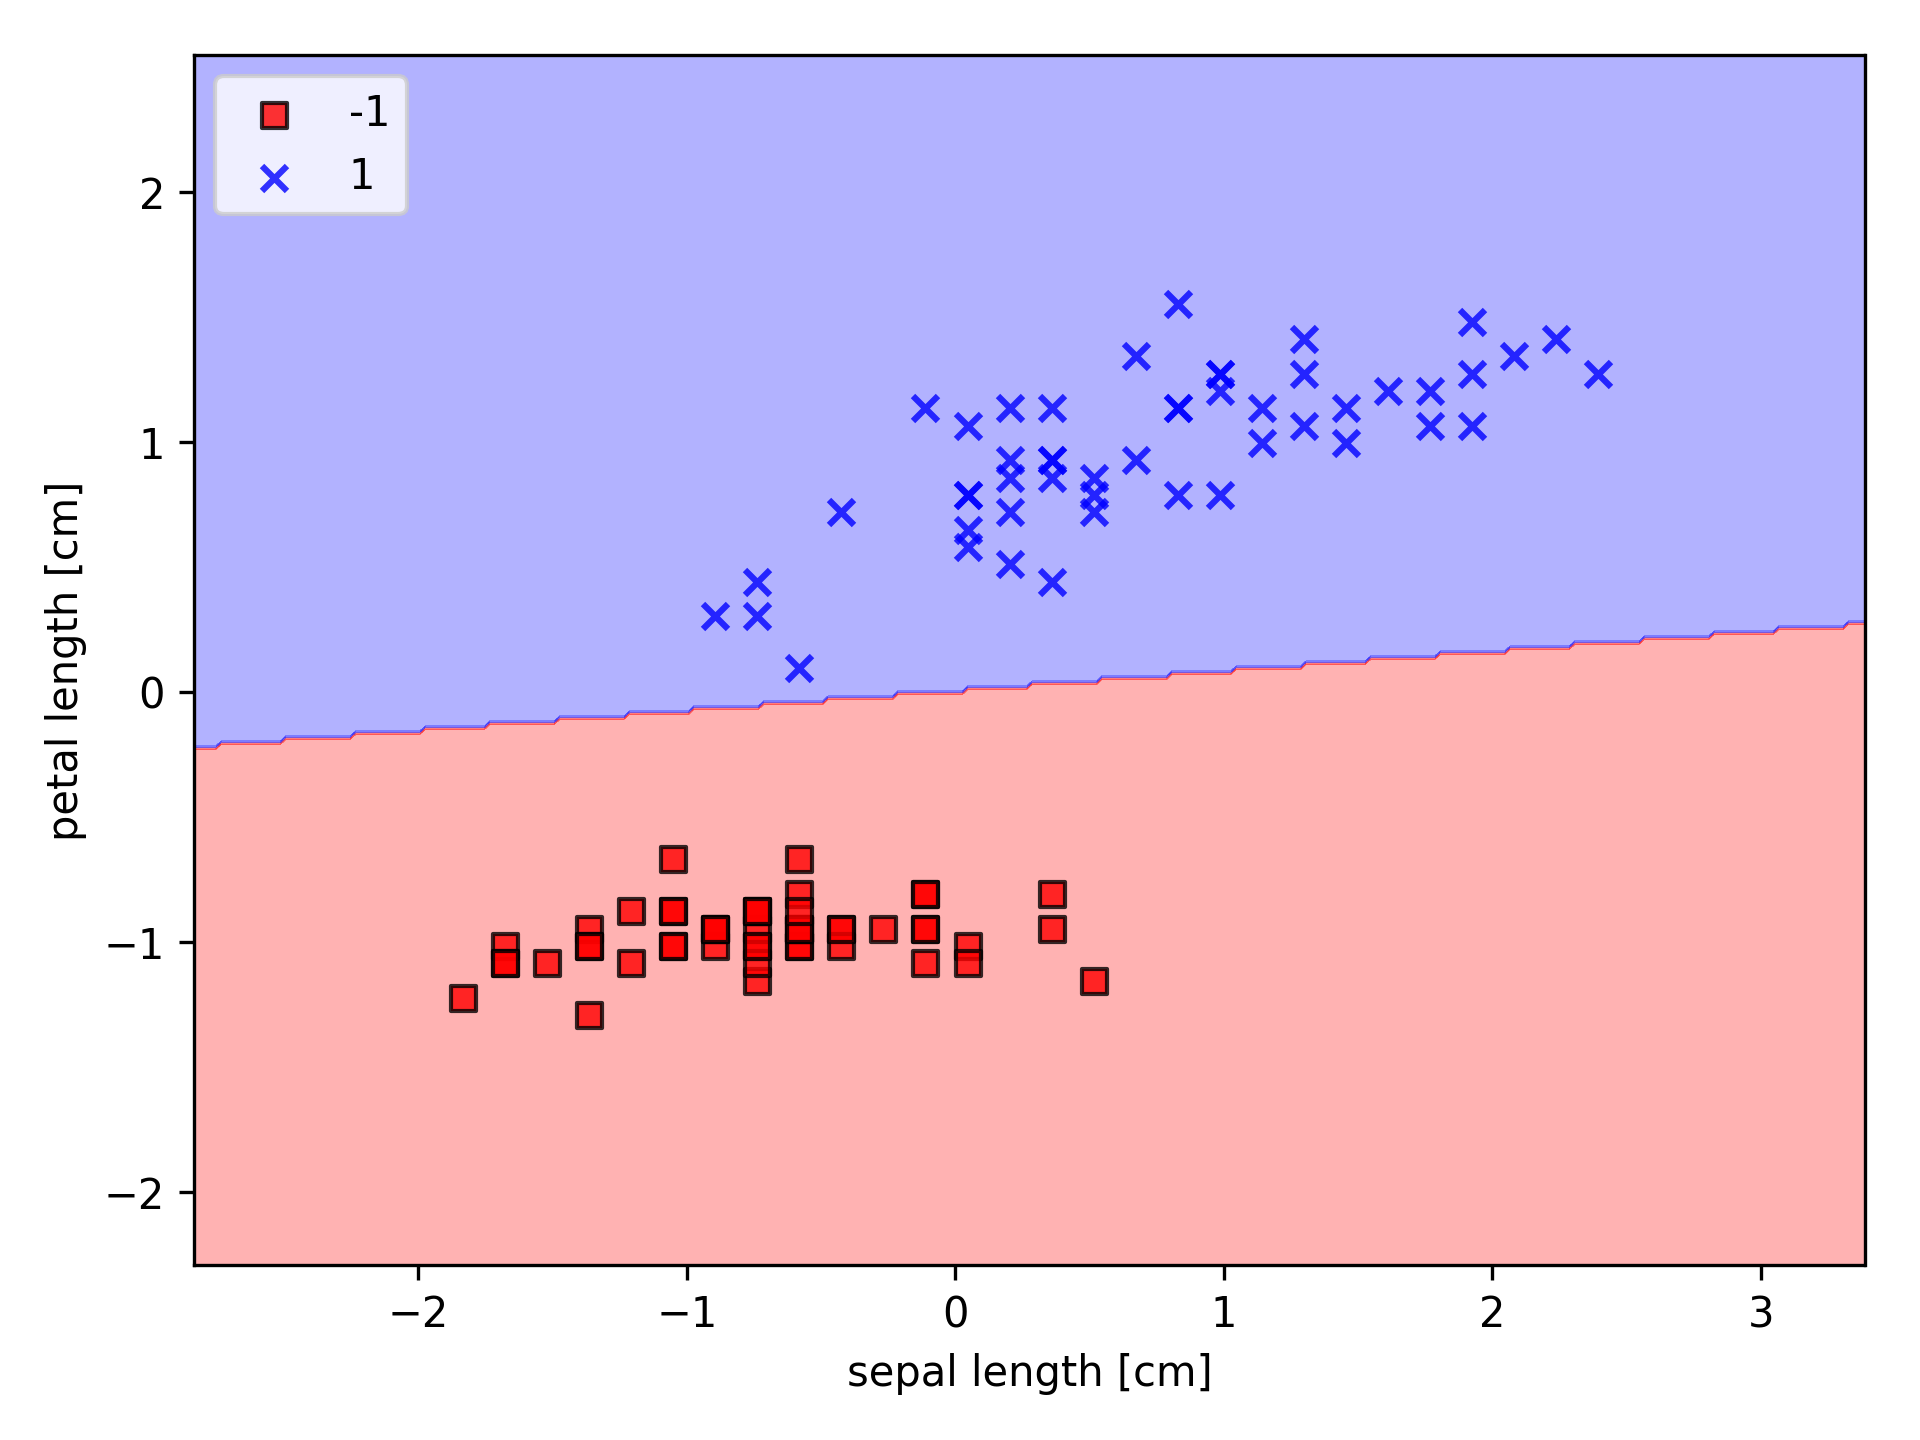
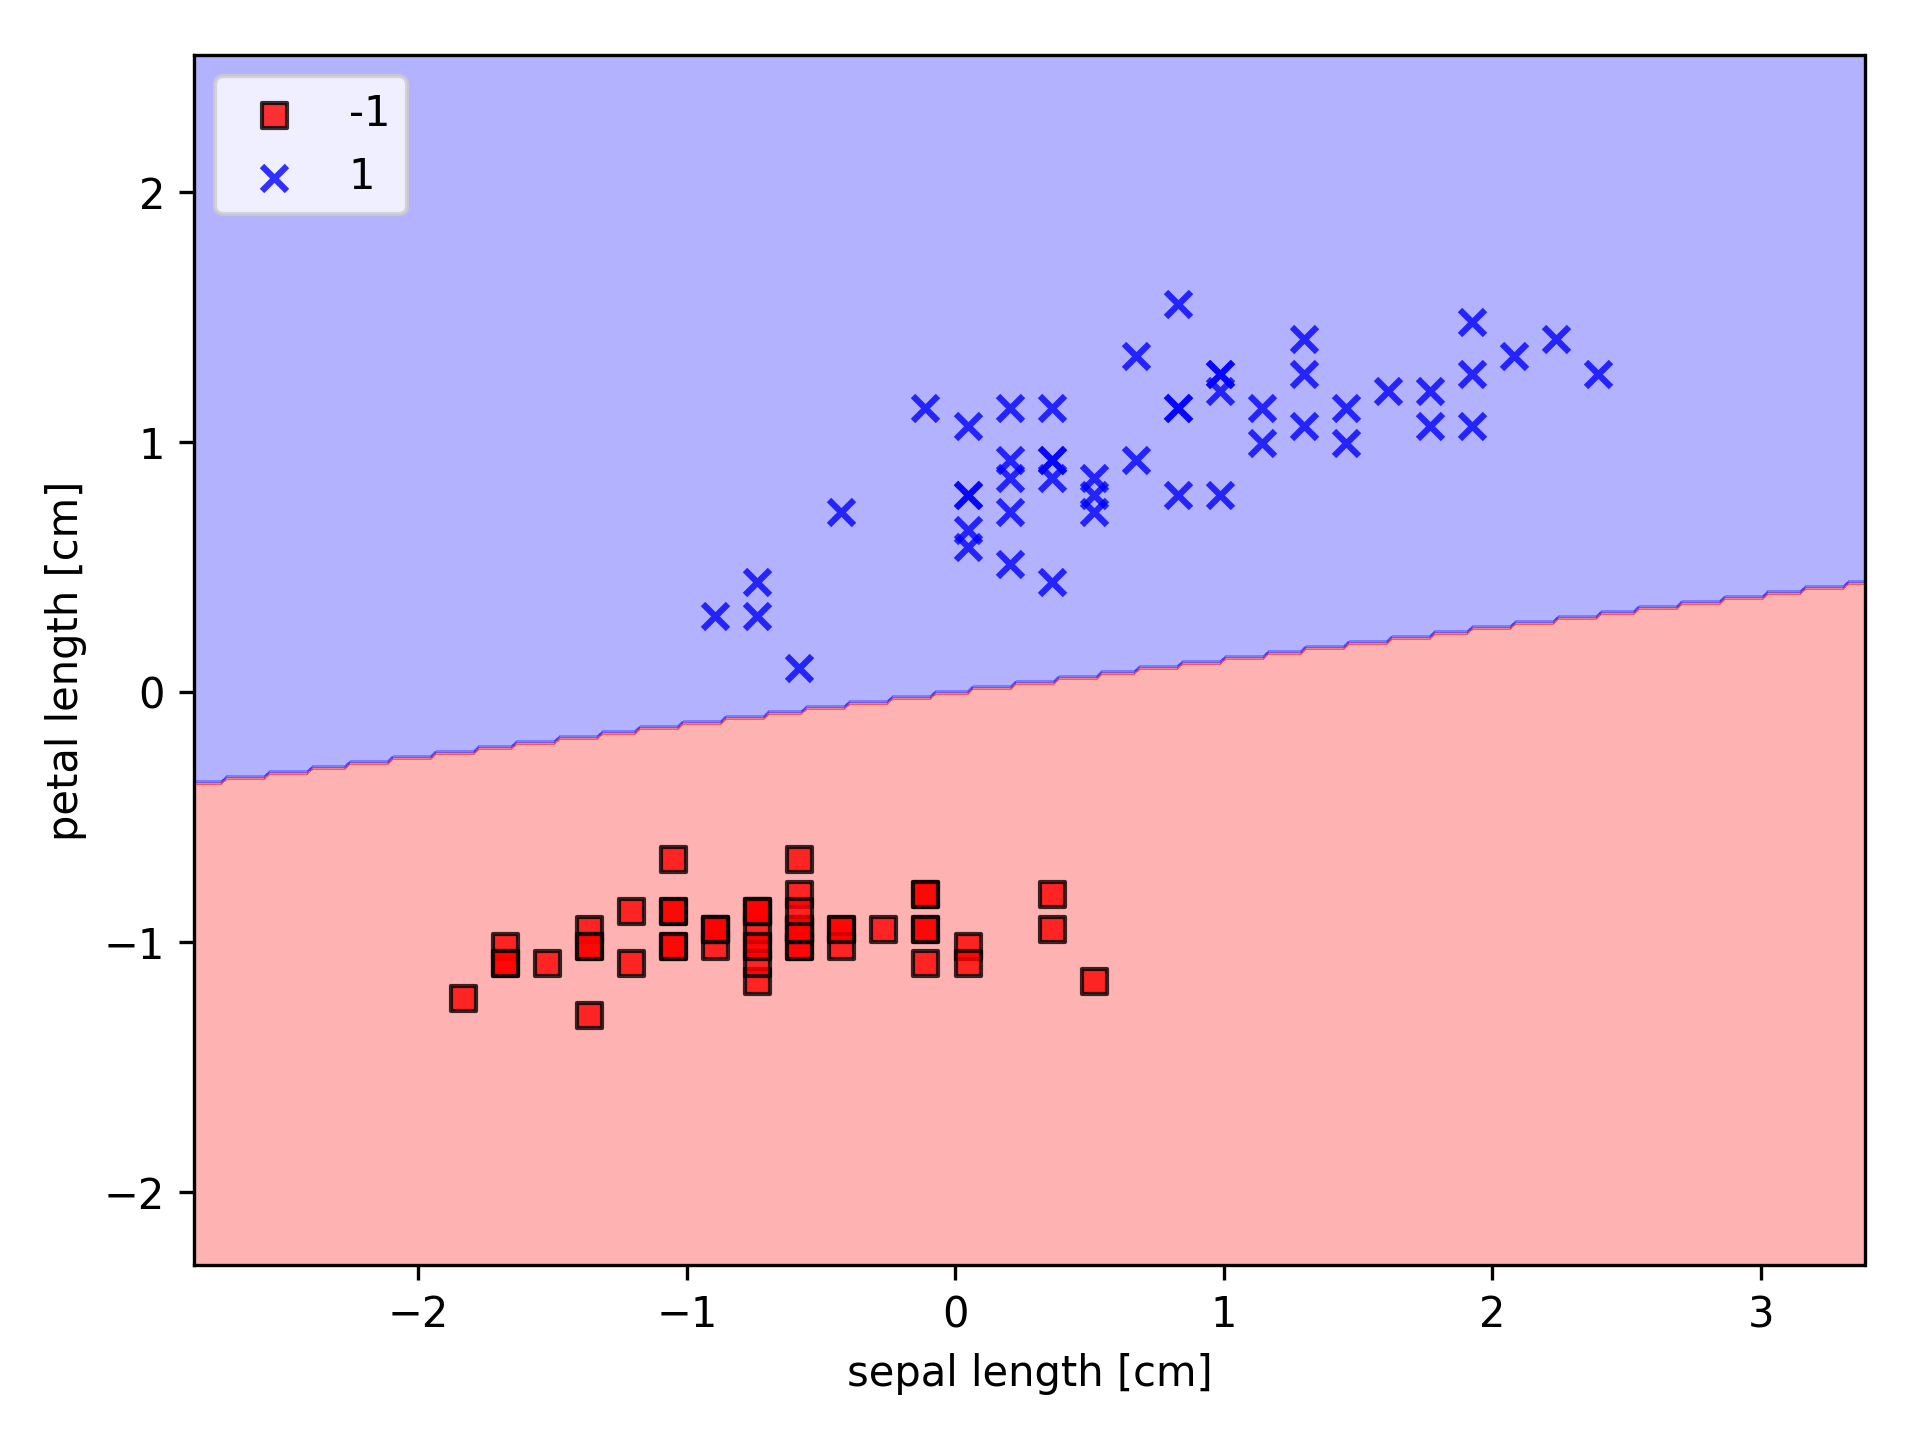
Bug fix on Adaline with Stochastic update

Changed region(s): [[0.0938, 0.4688, 0.5, 0.5625], [0.5938, 0.4062, 0.9688, 0.4688], [0.5312, 0.4688, 0.5938, 0.5]]

diff --git a/ml/adaline/adaline.py b/ml/adaline/adaline.py
@@ -73,24 +73,18 @@ class AdalineSGD(Classifier):
         # Initialize weights to small random numbers
         self._initialize_weights(x.shape[1])
 
+        self.cost = []
         for i in range(self.num_epochs):
             print('Training epoch ' + str(i + 1))
-
-            # Please note that the "activation" method has no effect in the code since it is simply an identity
-            # function.
-            # We could write output = self.net_input(x) directly instead.
-            # The purpose of the activation is more conceptual, i.e., in the case of logistic regression (as we will see
-            # later),
-            # we could change it to a sigmoid function to implement a logistic regression classifier.
 
             if self.shuffle:
                 x, y = self._shuffle(x, y)
 
-            cost = []
+            c = []
             for xi, target in zip(x, y):
-                cost.append(self._update_weights(xi, target))
-                average_cost = sum(cost) / len(y)
-                self.cost.append(average_cost)
+                c.append(self._update_weights(xi, target))
+            average_cost = sum(c) / len(y)
+            self.cost.append(average_cost)
 
         return self
 
@@ -136,6 +130,6 @@ class AdalineSGD(Classifier):
         error = (target - output)
         self.weights[1:] += self.learning_rate * xi.dot(error)
         self.weights[0] += self.learning_rate * error
-        cost = 0.5 * error**2
+        c = 0.5 * error**2
 
-        return cost
+        return c

diff --git a/tests/adaline/adaline_test.py b/tests/adaline/adaline_test.py
@@ -108,13 +108,13 @@ class AdalineTest(unittest.TestCase):
         Plotter.plot_data_set(x_std, '../../resources/images/AdalineSGD-Standardized-Training-Set.png')
 
         # train adaline on standardized features with a small number of epochs
-        adaline = AdalineSGD(learning_rate=0.01, num_epochs=10)
+        adaline = AdalineSGD(learning_rate=0.01, num_epochs=15)
         adaline.fit(x_std, self.y)
 
         # plot learning curve
         curve = {
             'cost_length': len(adaline.cost),
-            'cost': np.log10(adaline.cost),
+            'cost': adaline.cost,
             'marker': 'o',
             'x_label': 'Epochs',
             'y_label': 'log(Sum-squared-error)',
